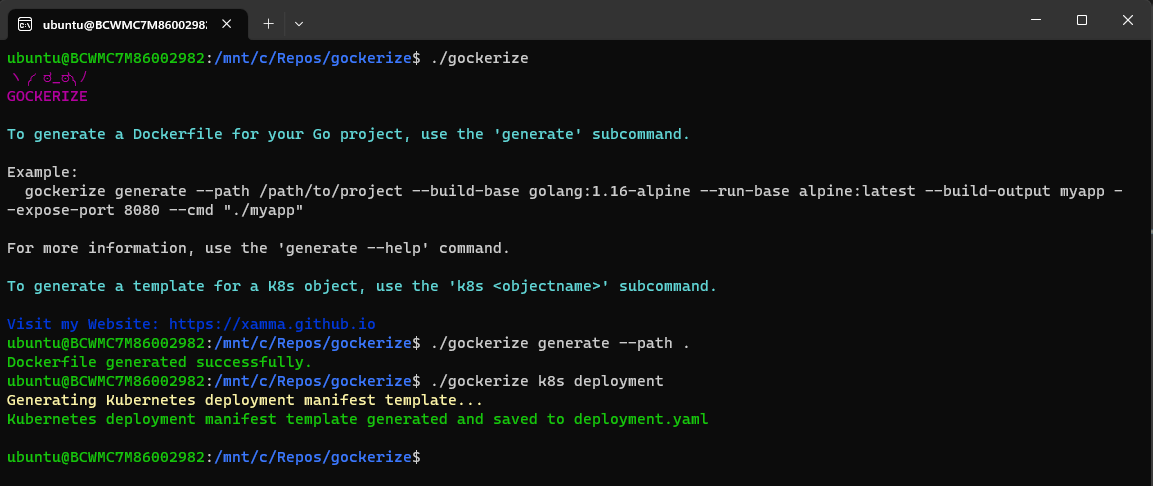
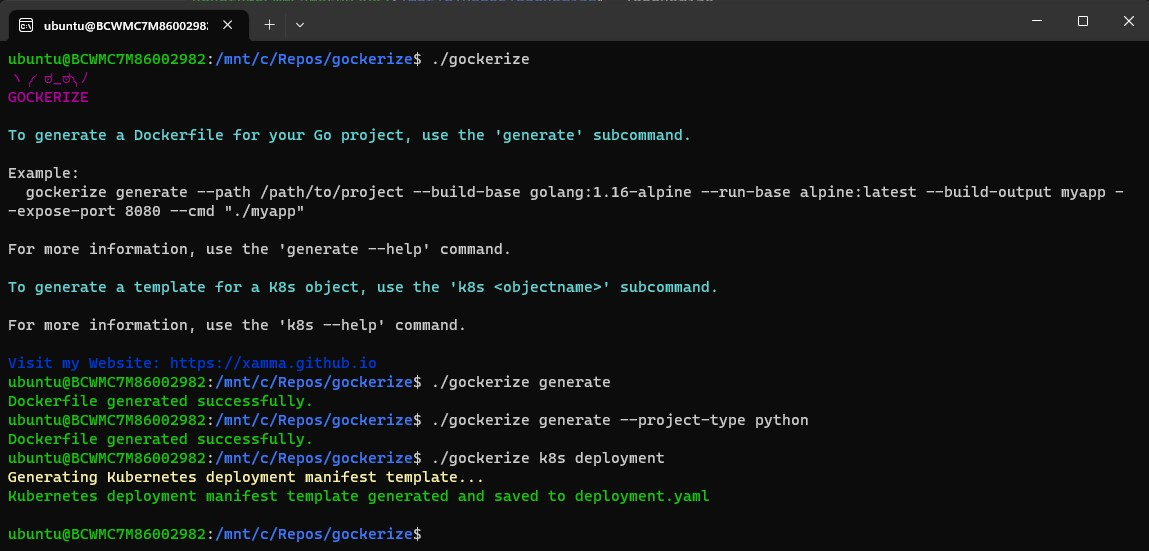
Updated to also work on Python Dockerfiles.

Changed region(s): [[0.0, 0.0309, 1.0, 0.463], [0.0, 0.6481, 0.7006, 0.9877], [0.0, 0.4938, 0.6092, 0.6173]]

diff --git a/pkg/dockerizer/dockerizer.go b/pkg/dockerizer/dockerizer.go
@@ -2,12 +2,38 @@ package dockerizer
 
 import (
 	"fmt"
-	"io/ioutil"
 	"os"
 	"path/filepath"
 )
 
-func GenerateDockerfile(dockerfilePath, path, baseImage, runImage, buildOutput, exposePort, cmd string) error {
+func findRequirementsFile(directory string) (string, error) {
+	err := filepath.Walk(directory, func(path string, info os.FileInfo, err error) error {
+		if err != nil {
+			return err
+		}
+		if filepath.Base(path) == "requirements.txt" {
+			return fmt.Errorf(path) // Stop walking and return the path
+		}
+		return nil
+	})
+	if err == nil {
+		return "", fmt.Errorf("requirements.txt not found in %s", directory)
+	}
+	return err.Error(), nil
+}
+
+func generateBaseImage(baseImage, projectType string) string {
+	if projectType == "python" {
+		return "python:3.11-slim"
+	}
+	if baseImage == "" {
+		// we want this primarily for Go projects, so take this as default
+		return "golang:1.20-alpine"
+	}
+	return baseImage
+}
+
+func GenerateDockerfile(dockerfilePath, path, baseImage, runImage, buildOutput, exposePort, cmd, projectType string) error {
 	if dockerfilePath == "" {
 		// Use the current working directory as the default Dockerfile path
 		cwd, err := os.Getwd()
@@ -26,24 +52,67 @@ func GenerateDockerfile(dockerfilePath, path, baseImage, runImage, buildOutput, 
 		return fmt.Errorf("%s is not a directory", path)
 	}
 
-	// Create the Dockerfile content
-	dockerfileContent := fmt.Sprintf("FROM %s AS builder\n", baseImage)
-	dockerfileContent += fmt.Sprintf("WORKDIR /app\n")
-	dockerfileContent += fmt.Sprintf("COPY %s .\n", path)
-	dockerfileContent += fmt.Sprintf("RUN go build -o %s\n", buildOutput)
-	dockerfileContent += fmt.Sprintf("\n")
-	dockerfileContent += fmt.Sprintf("FROM %s\n", runImage)
-	dockerfileContent += fmt.Sprintf("WORKDIR /app\n")
-	dockerfileContent += fmt.Sprintf("COPY --from=builder /app/%s .\n", buildOutput)
+	var dockerfileContent string
+
+	baseImage = generateBaseImage(baseImage, projectType)
+
+	switch projectType {
+	case "go":
+		dockerfileContent = fmt.Sprintf("FROM %s AS builder\n", baseImage)
+		dockerfileContent += fmt.Sprintf("\n")
+		dockerfileContent += fmt.Sprintf("WORKDIR /app\n")
+		dockerfileContent += fmt.Sprintf("\n")
+		dockerfileContent += fmt.Sprintf("COPY %s .\n", path)
+		dockerfileContent += fmt.Sprintf("\n")
+		dockerfileContent += fmt.Sprintf("RUN go build -o %s\n", buildOutput)
+		dockerfileContent += fmt.Sprintf("\n")
+		dockerfileContent += fmt.Sprintf("FROM %s\n", runImage)
+		dockerfileContent += fmt.Sprintf("\n")
+		dockerfileContent += fmt.Sprintf("WORKDIR /app\n")
+		dockerfileContent += fmt.Sprintf("\n")
+		dockerfileContent += fmt.Sprintf("COPY --from=builder /app/%s .\n", buildOutput)
+	case "python":
+		dockerfileContent = fmt.Sprintf("FROM %s\n", baseImage)
+		dockerfileContent += fmt.Sprintf("\n")
+		dockerfileContent += fmt.Sprintf("RUN mkdir /app\n")
+		dockerfileContent += fmt.Sprintf("\n")
+
+		// Look for requirements.txt in the project directory and its subdirectories recursively
+		requirementsPath, err := findRequirementsFile(path)
+		if err != nil {
+			return err
+		}
+
+		// Include requirements.txt and install dependencies if file was found
+		if requirementsPath != "" {
+			dockerfileContent += fmt.Sprintf("COPY %s /opt/requirements.txt\n", requirementsPath)
+			dockerfileContent += fmt.Sprintf("\n")
+			dockerfileContent += fmt.Sprintf("RUN pip install --no-cache-dir -r /opt/requirements.txt\n")
+		}
+
+		// Copy Python project files (hardcoded lol)
+		dockerfileContent += fmt.Sprintf("\n")
+		dockerfileContent += fmt.Sprintf("COPY /src/main /app\n")
+		dockerfileContent += fmt.Sprintf("\n")
+		dockerfileContent += fmt.Sprintf("WORKDIR /app\n")
+	}
+
+	// Common parts for both Go and Python projects (kinda, CMD not really working)
 	dockerfileContent += fmt.Sprintf("\n")
 	dockerfileContent += fmt.Sprintf("EXPOSE %s\n", exposePort)
 	dockerfileContent += fmt.Sprintf("\n")
 	dockerfileContent += fmt.Sprintf("CMD [\"%s\"]\n", cmd)
 
-	// Write the Dockerfile content to the specified path
-	err = ioutil.WriteFile(dockerfilePath, []byte(dockerfileContent), 0644)
+	// Create the Dockerfile and write the content to the file in the specified path
+	file, err := os.Create(dockerfilePath)
 	if err != nil {
-		return fmt.Errorf("failed to write Dockerfile: %v", err)
+		return fmt.Errorf("failed to create Dockerfile: %v", err)
+	}
+	defer file.Close()
+
+	_, err = file.WriteString(dockerfileContent)
+	if err != nil {
+		return fmt.Errorf("failed to write Dockerfile content: %v", err)
 	}
 
 	return nil

diff --git a/cmd/generate.go b/cmd/generate.go
@@ -11,11 +11,12 @@ import (
 func NewGenerateCommand() *cobra.Command {
 	cmd := &cobra.Command{
 		Use:   "generate",
-		Short: "Generate Dockerfile for a Go project",
-		Long: `Generate Dockerfile for a Go project based on the given parameters.
+		Short: "Generate Dockerfile for a Go/Python project",
+		Long: `Generate Dockerfile for a Go/Python project based on the given parameters.
 
-This command generates a Dockerfile for a Go project based on the provided options.
+This command generates a Dockerfile for a Go/Python project based on the provided options.
 It uses multi-stage builds to create minimal Docker images.
+Go is the default project-type if you dont pass values.
 
 Example usage:
   gockerize generate --path /path/to/project --build-base golang:1.16-alpine --run-base alpine:latest --build-output myapp --expose-port 8080 --cmd "./myapp"
@@ -28,8 +29,9 @@ Example usage:
 			exposePort, _ := cmd.Flags().GetString("expose-port")
 			cmdValue, _ := cmd.Flags().GetString("cmd")
 			dockerfilePath, _ := cmd.Flags().GetString("dockerfile-path")
+			projectType, _ := cmd.Flags().GetString("project-type")
 
-			err := dockerizer.GenerateDockerfile(dockerfilePath, path, buildBaseImage, runBaseImage, buildOutput, exposePort, cmdValue)
+			err := dockerizer.GenerateDockerfile(dockerfilePath, path, buildBaseImage, runBaseImage, buildOutput, exposePort, cmdValue, projectType)
 			if err != nil {
 				log.Fatalf("Failed to generate Dockerfile: %v", err)
 			}
@@ -45,10 +47,11 @@ Example usage:
 	cmd.Flags().String("run-base", "alpine:latest", "Base image for the run stage of the Dockerfile")
 	cmd.Flags().String("build-output", "goapp", "Name of the build output binary")
 	cmd.Flags().String("expose-port", "8080", "Port to expose in the Dockerfile")
-	cmd.Flags().String("cmd", "./goapp", "Command to run in the Dockerfile")
+	cmd.Flags().String("cmd", "./goapp", "Command to run in the Dockerfile CMD")
 	cmd.Flags().String("dockerfile-path", "", "Path to the Dockerfile")
+	cmd.Flags().String("project-type", "go", "Project Type: Go or Python")
 
-	cmd.MarkFlagRequired("path")
+	// cmd.MarkFlagRequired("path")
 
 	return cmd
 }

diff --git a/Readme.md b/Readme.md
@@ -1,12 +1,12 @@
 # Gockerize - Build Dockerfiles for you Go projects
 [![Build and Release](https://github.com/xamma/gockerize/actions/workflows/build-and-release.yaml/badge.svg?branch=master)](https://github.com/xamma/gockerize/actions/workflows/build-and-release.yaml)  
 
-This project is a very simple CLI tool for creating Dockerfiles for Go projects.  
+This project is a very simple CLI tool for creating Dockerfiles for Go and Python projects.  
 It also lets you create Templates for Kubernetes-Objects.  
 
 !["screen"](assets/screen.jpg)
   
-**Important**: It only uses the same template and may need to be adjusted according to your needs and structure.  
+**Important**: It only uses the same template-structure and may need to be adjusted according to your needs and projects.  
 I primarly made this for learning how to write CLI tools with the **Cobra library in Go**.  
 
 ## How to install
@@ -20,7 +20,7 @@ sudo chmod +x /usr/local/bin/gockerize
 ## How to run
 For creating Dockerfiles:
 ```
-gockerize generate --path .
+gockerize generate
 ```
 It will print if successful and output the Dockerfile in the current dir.  
 
@@ -53,6 +53,7 @@ I tested it on this common project layout, and it will work on similar layouts.
     ├── appconfig.go
     └── item.go
 ```
+For the Python Dockerfiles you NEED to have an requirements.txt. It will search for it in the directory.  
 
 ## Build from source
 Clone repo and cd into it. Run ```go build```.  
